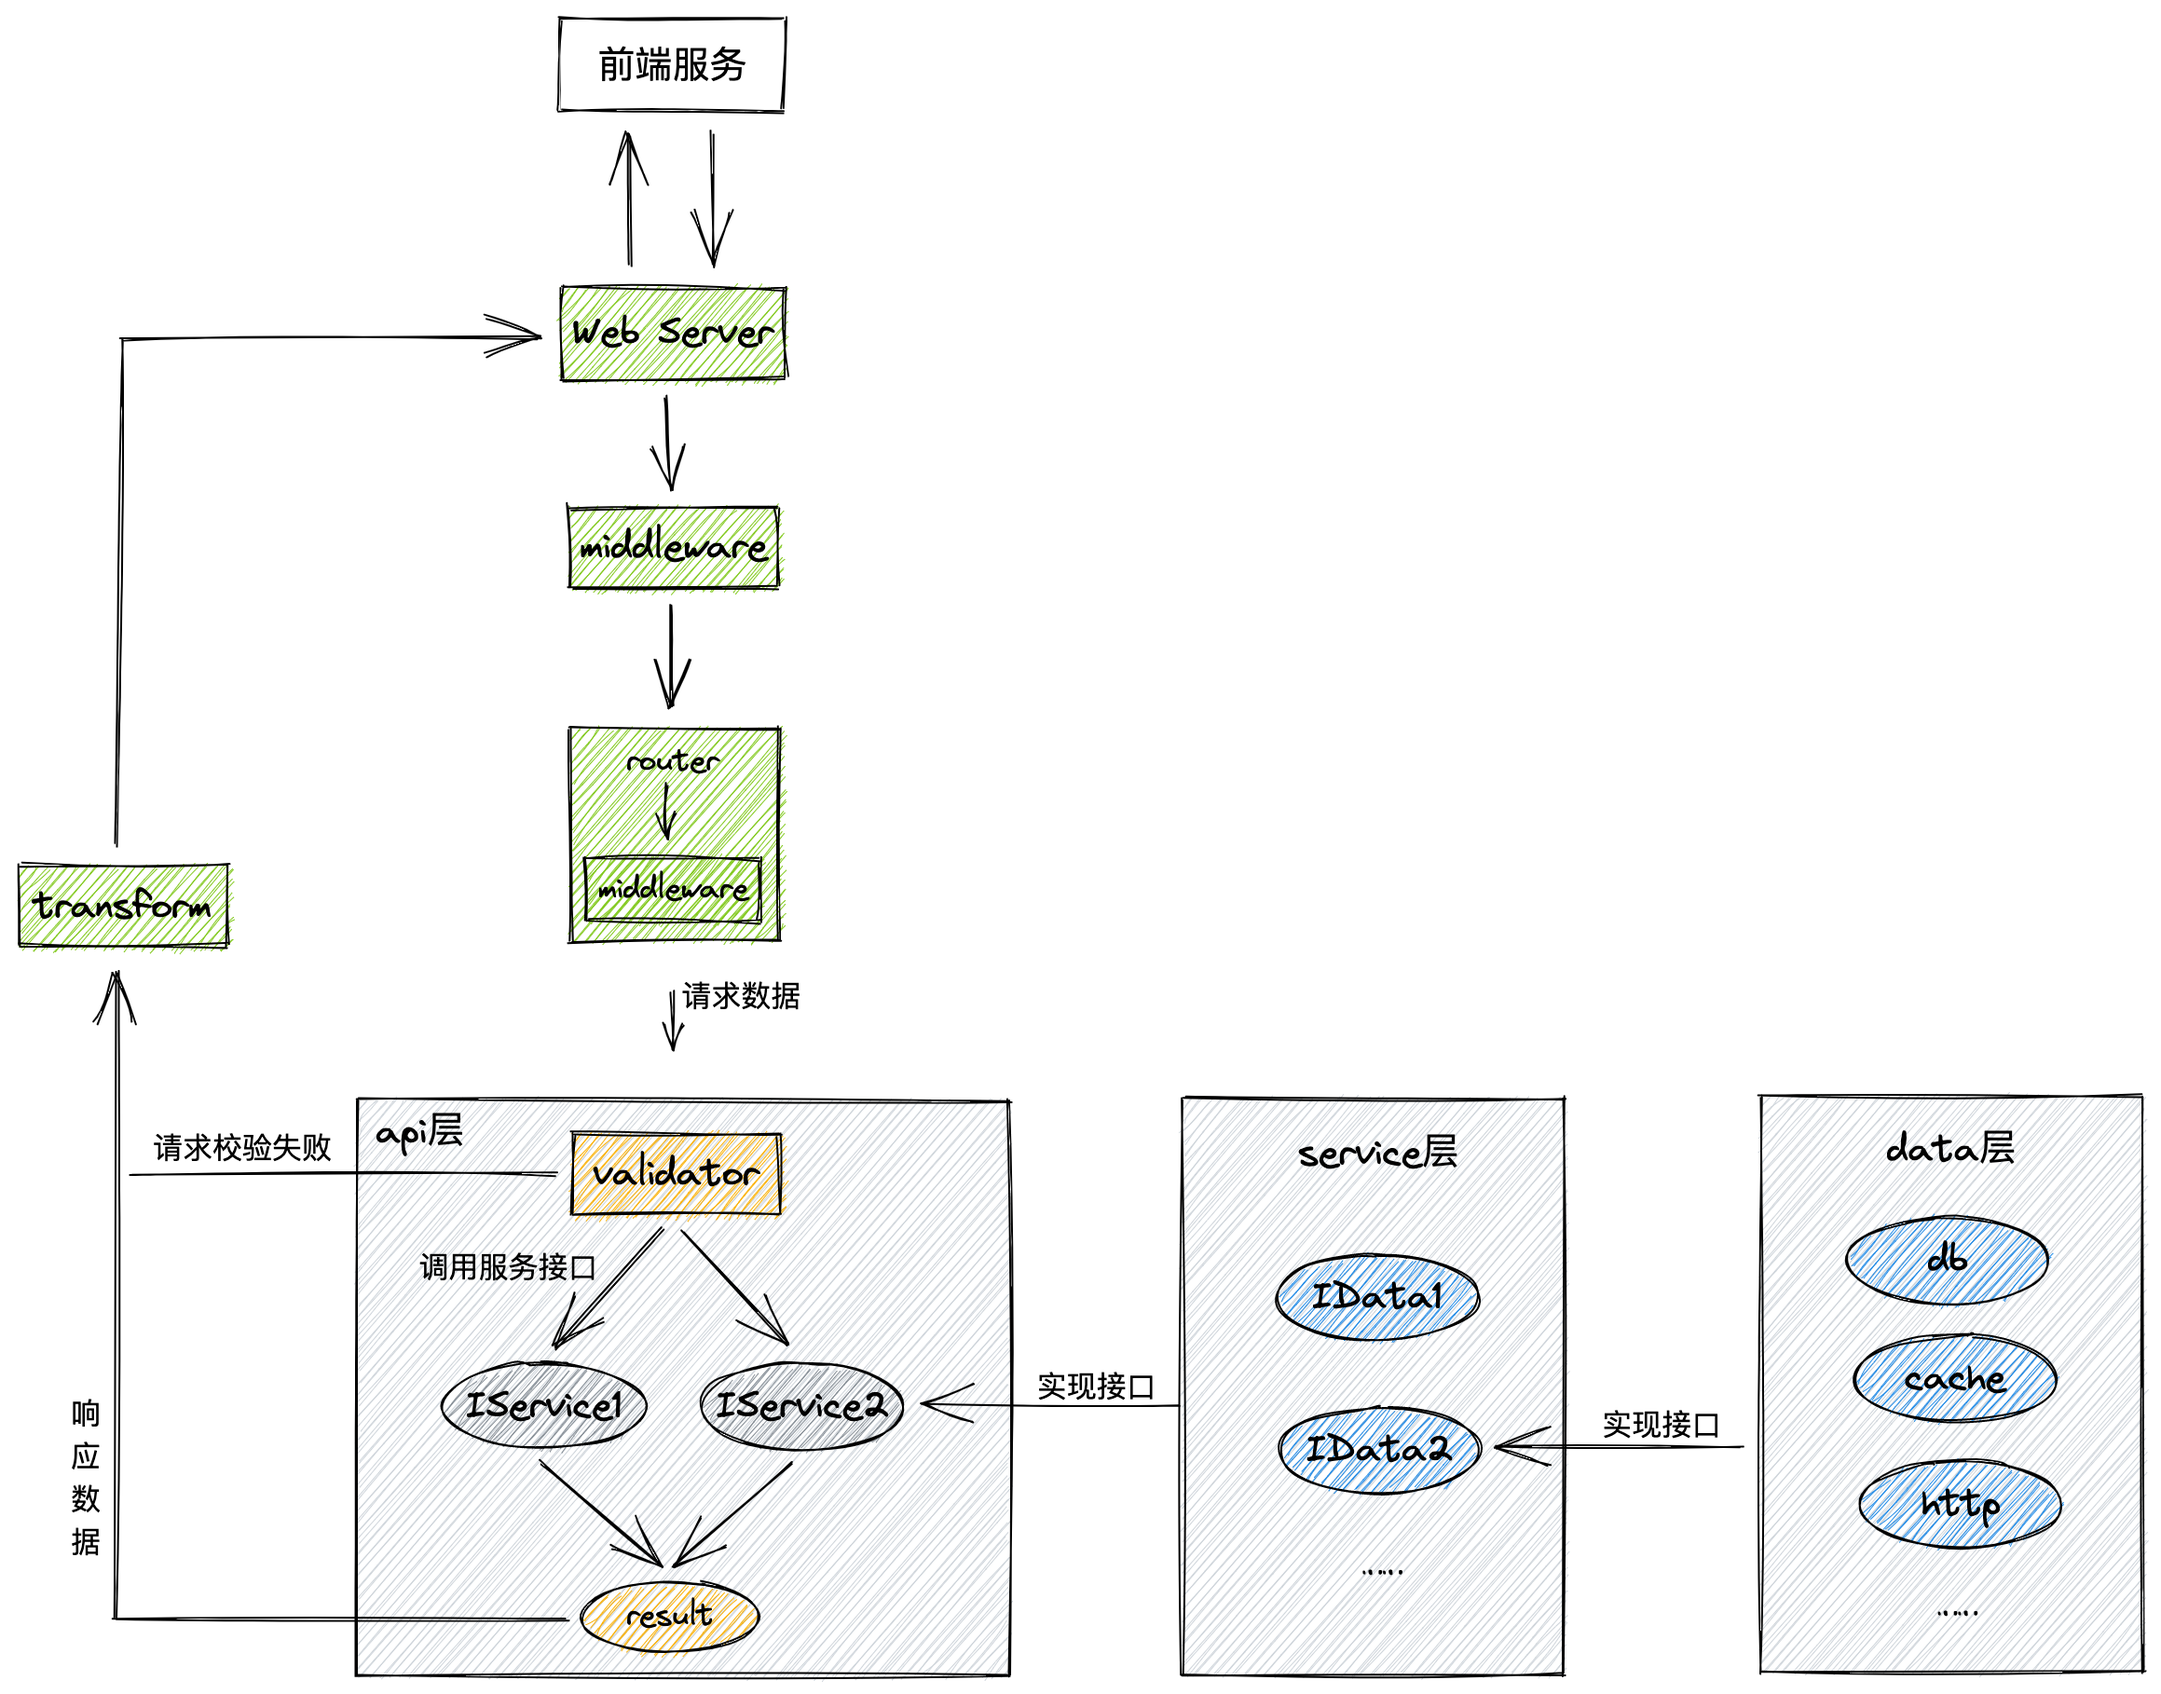
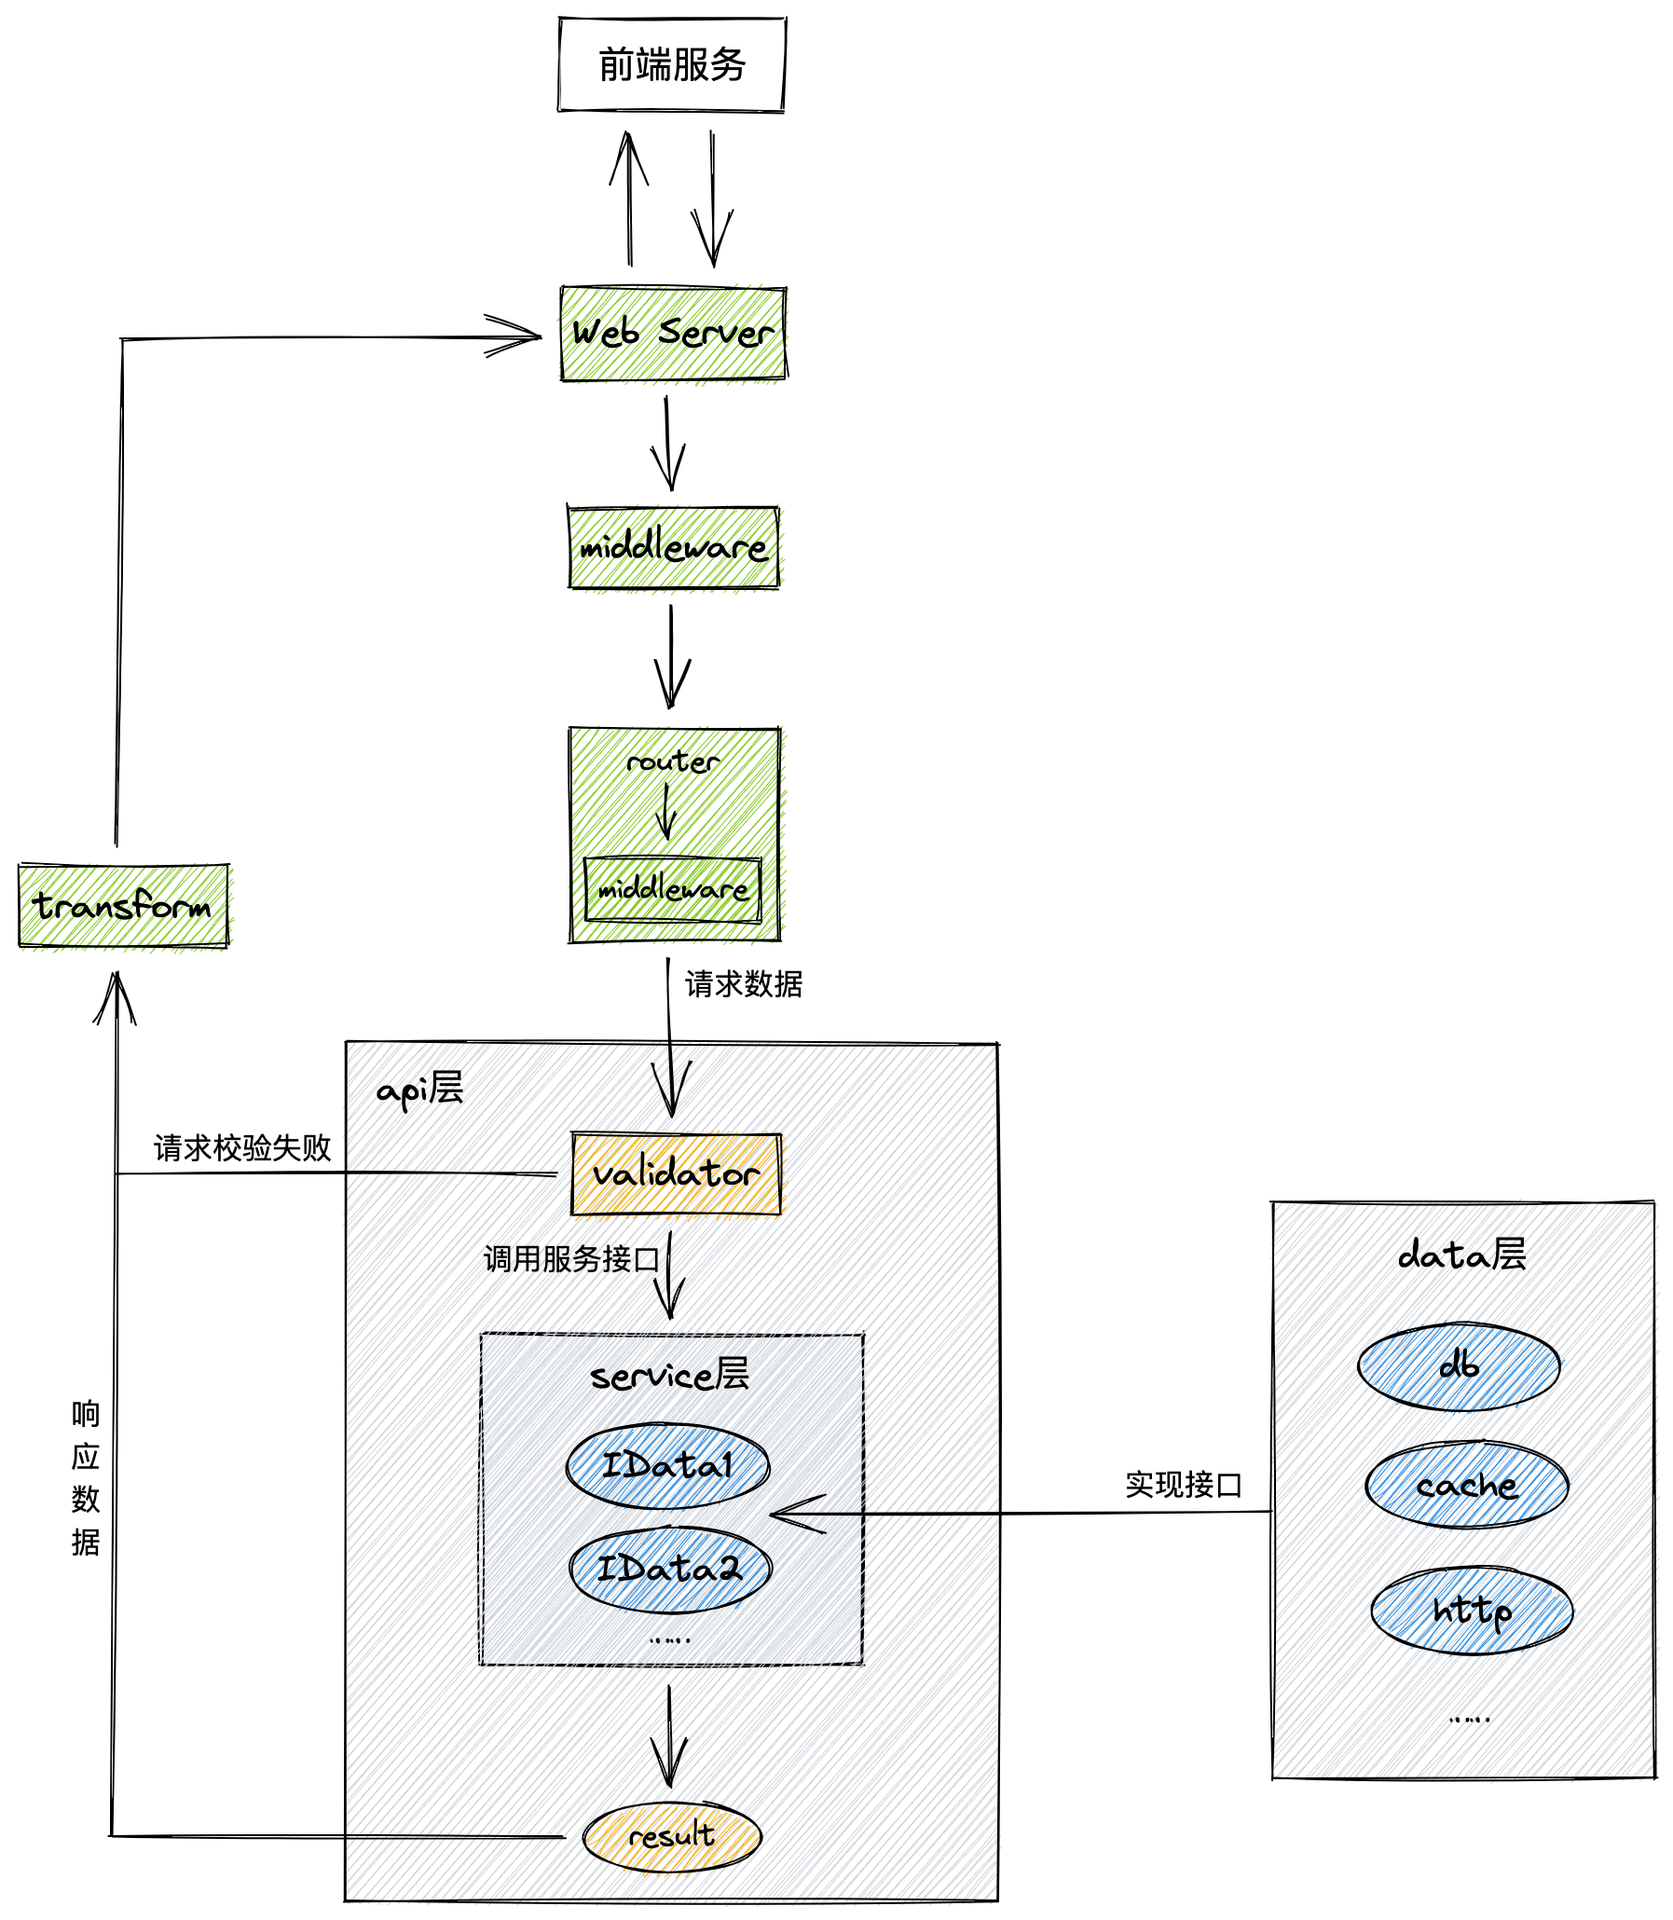
README

diff --git a/README.md b/README.md
@@ -22,9 +22,7 @@ docs：https://app.gitbook.com/@mittacychen/s/ego
     2. 调用 service 服务，获得返回结果；
     3. 调用 transform 对响应数据进行处理，然后响应给前端
 
-- service 层：实现 api 层定义的 service 接口，一个 service 结构体可以实现多个 api 层定义的服务接口
-
-    service 包含一个或多个 data 接口，相关的数据操作应该放在同一个 data 接口中
+- service 层：service 包含一个或多个 data 接口，相关的数据操作应该放在同一个 data 接口中
 
 - data 层：实现 service 层定义的 data 接口，一个 data 结构体可以实现多个 service 层定义的 data 接口
 
@@ -69,7 +67,7 @@ docs：https://app.gitbook.com/@mittacychen/s/ego
 │   │   └── user.go
 │   ├── api                 # api控制器，这里只进行请求解析、service编排与调用
 │   │   └── user.go
-│   ├── service             # 服务层，处理逻辑，实现api中各个服务接口
+│   ├── service             # 服务层，处理逻辑
 │   │   └── user.go
 │   ├── data                # 数据存储层，实现service中各个data接口
 │   │   └── user.go
@@ -78,10 +76,8 @@ docs：https://app.gitbook.com/@mittacychen/s/ego
 ├── middleware              # 中间件
 │   └── core.go
 ├── router
-│   ├── custom_wire.go		# ego生成的api控制器创建函数，自定义控制器创建函数也写在这里
+│   ├── api.go				# ego生成的api控制器初始化函数
 │   ├── router.go			# 路由初始化
-│   ├── wire.go				# 依赖注入，生成各种api控制器创建函数
-│   └── wire_gen.go
 └── utils                   # 工具封装
 │   └── err.go
 ├── logs                    # 日志文件目录
@@ -130,7 +126,7 @@ $ go get -u github.com/mittacy/ego@latest
 # 进入项目根目录
 $ cd project
 
-# 创建 api、validator、transform、service、data、model、wire 代码模板
+# 创建 api、validator、transform、service、data、model 代码模板
 $ ego tpl api article
 
 # 创建 service、data、model 代码模板
